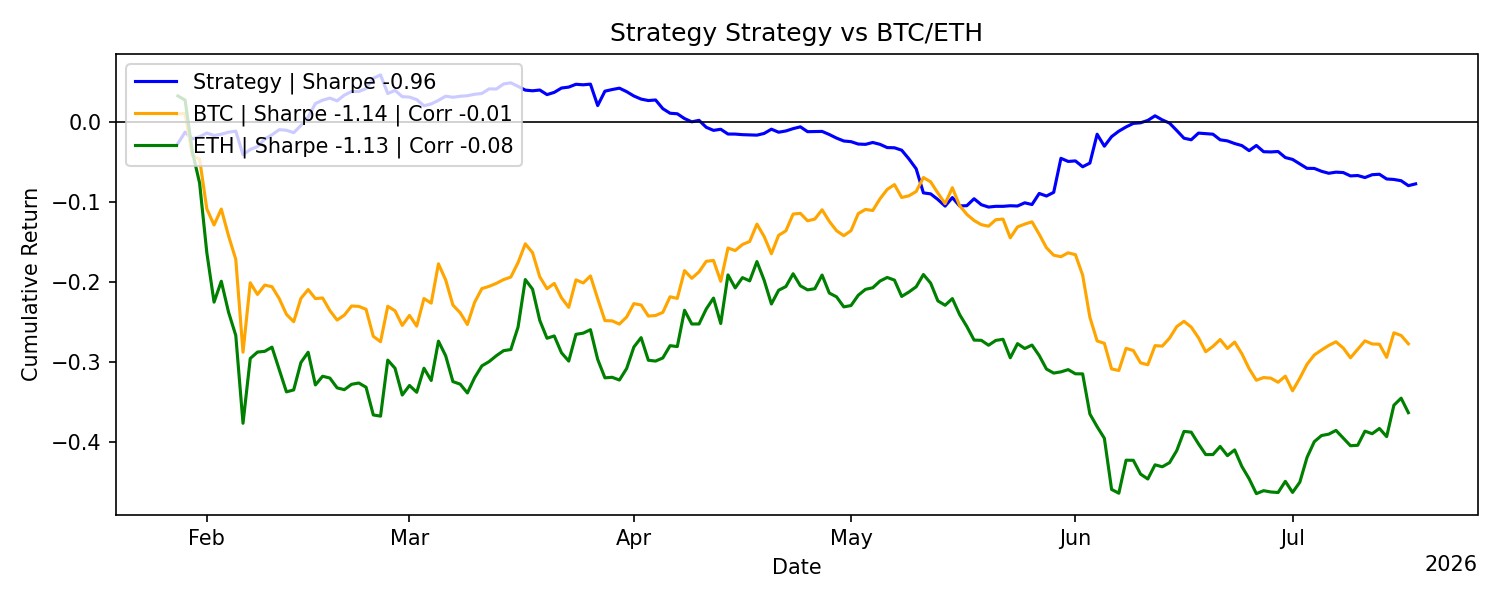
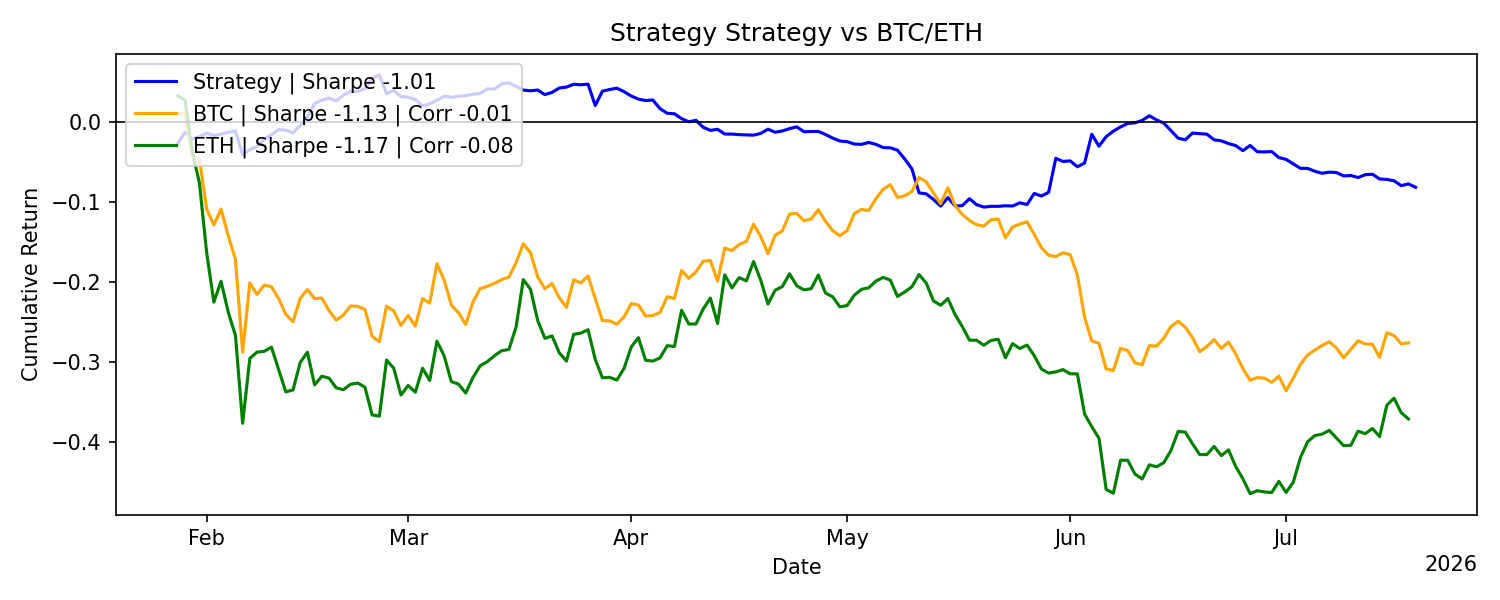
Update reports: 2026-07-19 00:05:05 UTC

diff --git a/README.md b/README.md
@@ -24,26 +24,26 @@ All results are live and reported net of transaction costs and slippage.
 <!-- METRICS_START -->
 | metric                       |        values |
 |:-----------------------------|--------------:|
-| Number of Observations       | 172           |
-| Mean Daily Return            |  -0.000431072 |
-| Daily Volatility             |   0.00859914  |
-| Mean Annualized Return       |  -0.157341    |
-| Annualized Volatility        |   0.164286    |
+| Number of Observations       | 173           |
+| Mean Daily Return            |  -0.000455236 |
+| Daily Volatility             |   0.00857999  |
+| Mean Annualized Return       |  -0.166161    |
+| Annualized Volatility        |   0.16392     |
 | Maximum Drawdown             |  -0.156146    |
-| Max Drawdown Duration (Days) | 143           |
-| Sharpe                       |  -0.957726    |
-| Sortino                      |  -1.32034     |
-| Calmar                       |  -1.00765     |
-| CAGR                         |  -0.156971    |
-| Skewness                     |   0.714586    |
-| Excess Kurtosis              |   8.69611     |
-| Win Rate                     |   0.465116    |
-| Profit Factor                |   0.85193     |
-| VaR 1%                       |  -0.0277354   |
+| Max Drawdown Duration (Days) | 144           |
+| Sharpe                       |  -1.01367     |
+| Sortino                      |  -1.40186     |
+| Calmar                       |  -1.06414     |
+| CAGR                         |  -0.164328    |
+| Skewness                     |   0.723016    |
+| Excess Kurtosis              |   8.73894     |
+| Win Rate                     |   0.462428    |
+| Profit Factor                |   0.844156    |
+| VaR 1%                       |  -0.0277057   |
 | CVaR 1%                      |  -0.030925    |
-| VaR 5%                       |  -0.0109221   |
+| VaR 5%                       |  -0.0108848   |
 | CVaR 5%                      |  -0.0208176   |
-| Correlation with BTC         |  -0.00790642  |
+| Correlation with BTC         |  -0.00766141  |
 <!-- METRICS_END -->
 
 ## Sharpe Statistics
@@ -55,14 +55,14 @@ All results are live and reported net of transaction costs and slippage.
 | metric                     |   values |
 |:---------------------------|---------:|
 | alpha                      |   0.05   |
-| t-statistic                |  -0.6574 |
-| p-value                    |   0.5118 |
-| Daily Sharpe Ratio         |  -0.0501 |
-| Annualized Sharpe Ratio    |  -0.9577 |
-| Sharpe Standard Error      |   1.4917 |
-| C.I. Lower Bound           |  -3.8815 |
-| C.I. Upper Bound           |   1.966  |
-| Bootstrap C.I. Lower Bound |  -4.3399 |
-| Bootstrap C.I. Upper Bound |   2.8584 |
+| t-statistic                |  -0.6979 |
+| p-value                    |   0.4862 |
+| Daily Sharpe Ratio         |  -0.0531 |
+| Annualized Sharpe Ratio    |  -1.0137 |
+| Sharpe Standard Error      |   1.4898 |
+| C.I. Lower Bound           |  -3.9336 |
+| C.I. Upper Bound           |   1.9063 |
+| Bootstrap C.I. Lower Bound |  -4.3882 |
+| Bootstrap C.I. Upper Bound |   2.9827 |
 <!-- SHARPE_END -->
 
